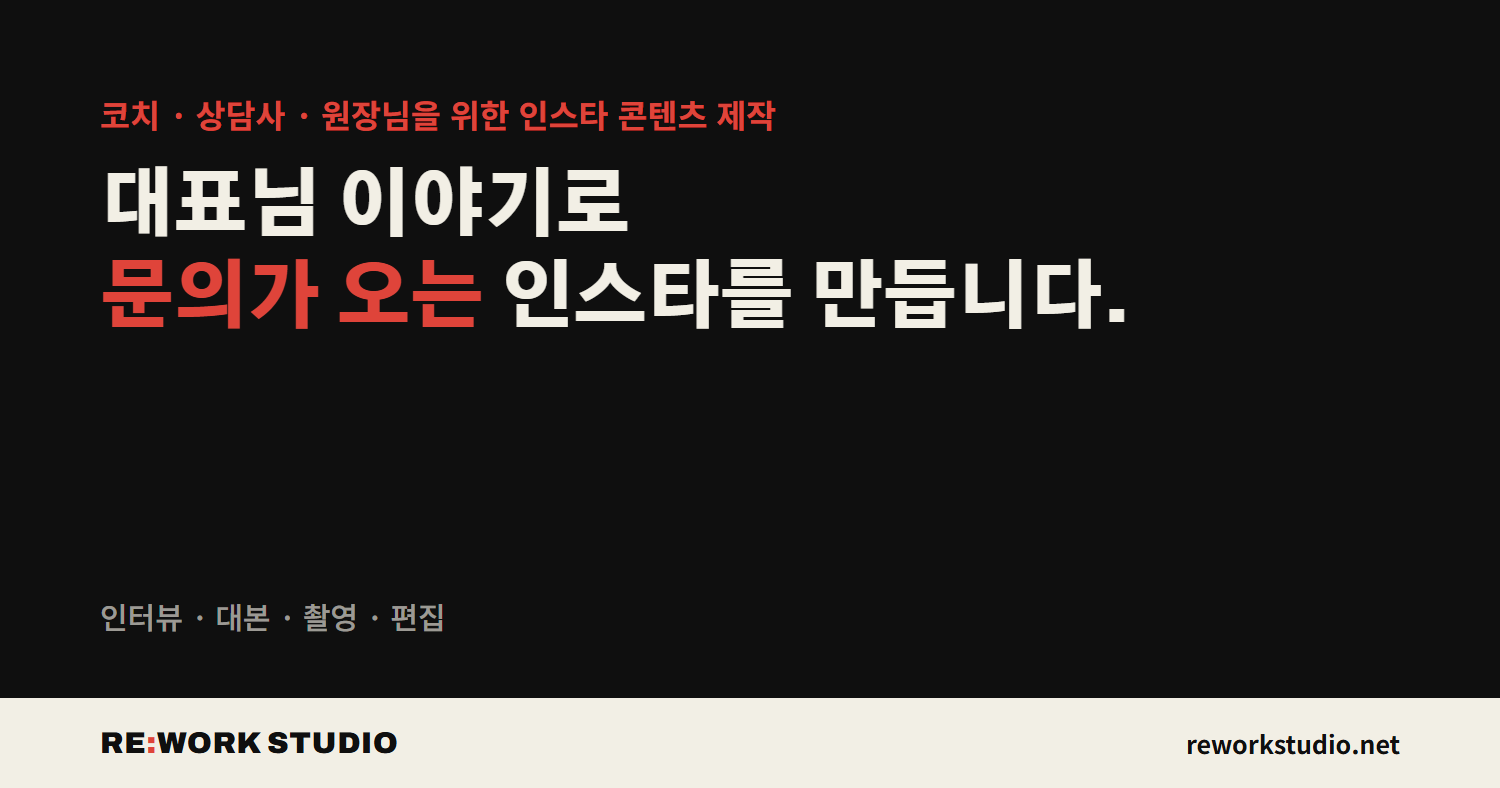
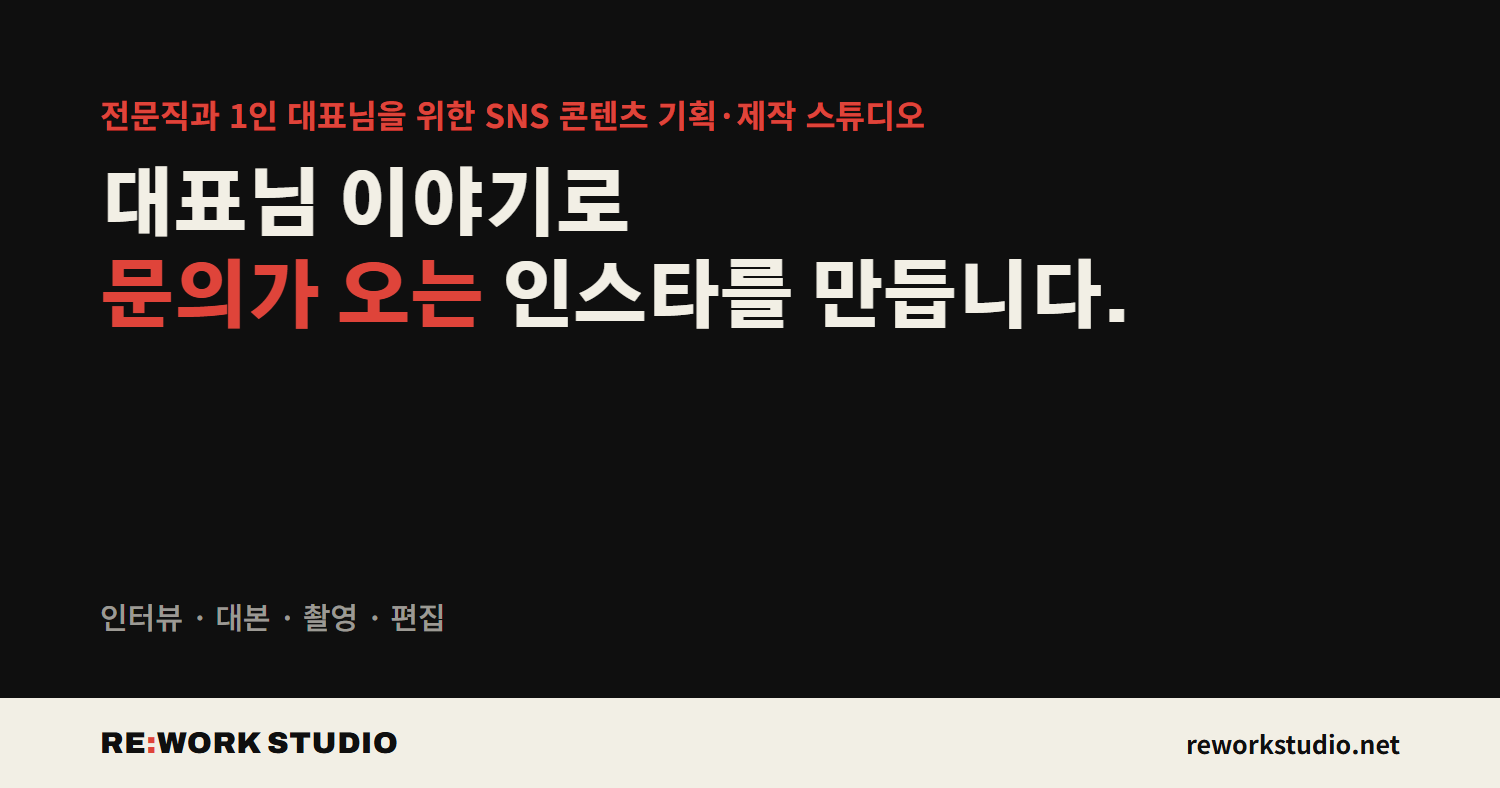
소개 문구 변경(전문직과 1인 대표님), 비공개 업체명 제거

Changed region(s): [[0.0613, 0.1218, 0.6133, 0.1827]]

diff --git a/insights/storytelling-marketing-research/index.html b/insights/storytelling-marketing-research/index.html
@@ -26,7 +26,7 @@
 <link rel="stylesheet" href="/css/site.css">
 <meta property="article:published_time" content="2026-11-03">
 <meta property="article:section" content="스토리 브랜딩">
-<script type="application/ld+json">{"@context":"https://schema.org","@graph":[{"@type":"BlogPosting","headline":"스토리텔링 마케팅, 정말 효과 있을까? 연구로 본 답","description":"이야기는 정말 마음을 움직일까요? 연구 5편으로 확인한 이야기의 힘과 한계, 대표님 콘텐츠에 쓰는 법.","datePublished":"2026-11-03","dateModified":"2026-11-03","inLanguage":"ko-KR","mainEntityOfPage":"https://reworkstudio.net/insights/storytelling-marketing-research","image":"https://reworkstudio.net/images/og/storytelling-marketing-research.png","keywords":"스토리텔링 마케팅, 스토리 브랜딩, 이야기 마케팅 효과, 1인 전문가 콘텐츠","articleSection":"스토리 브랜딩","author":{"@id":"https://reworkstudio.net/#founder"},"publisher":{"@id":"https://reworkstudio.net/#org"},"citation":[{"@type":"CreativeWork","name":"The role of transportation in the persuasiveness of public narratives","url":"https://doi.org/10.1037/0022-3514.79.5.701"},{"@type":"CreativeWork","name":"The Extended Transportation-Imagery Model: A Meta-Analysis of the Antecedents and Consequences of Consumers' Narrative Transportation","url":"https://doi.org/10.1086/673383"},{"@type":"CreativeWork","name":"Meta-analytic evidence for the persuasive effect of narratives on beliefs, attitudes, intentions, and behaviors","url":"https://doi.org/10.1080/03637751.2015.1128555"},{"@type":"CreativeWork","name":"The Differential Impact of Statistical and Narrative Evidence on Beliefs, Attitude, and Intention: A Meta-Analysis","url":"https://doi.org/10.1080/10410236.2013.842528"},{"@type":"CreativeWork","name":"Narrative Processing: Building Consumer Connections to Brands","url":"https://doi.org/10.1207/s15327663jcp1401&2_19"}]},{"@type":"BreadcrumbList","itemListElement":[{"@type":"ListItem","position":1,"name":"홈","item":"https://reworkstudio.net/"},{"@type":"ListItem","position":2,"name":"블로그","item":"https://reworkstudio.net/insights"},{"@type":"ListItem","position":3,"name":"스토리텔링 마케팅, 정말 효과 있을까? 연구로 본 답","item":"https://reworkstudio.net/insights/storytelling-marketing-research"}]},{"@type":"FAQPage","mainEntity":[{"@type":"Question","name":"스토리텔링 마케팅은 정말 효과가 있나요?","acceptedAnswer":{"@type":"Answer","text":"여러 연구에서 효과가 확인됐어요. 다만 크기는 작거나 중간 정도라, 이야기 하나로 크게 바뀌진 않아요."}},{"@type":"Question","name":"숫자와 이야기 중 뭐가 나을까요?","acceptedAnswer":{"@type":"Answer","text":"믿게 하려면 숫자가, 행동하게 하려면 이야기가 더 강했어요. 둘을 함께 쓰는 게 안전해요."}},{"@type":"Question","name":"실제 고객 사례가 꼭 있어야 하나요?","acceptedAnswer":{"@type":"Answer","text":"있으면 가장 좋아요. 동의 없는 사례를 지어내기보다 대표님이 직접 본 장면으로 대신하세요."}}]},{"@type":"ProfessionalService","@id":"https://reworkstudio.net/#org","name":"RE:WORK STUDIO","alternateName":["리워크 스튜디오","RE:WORK"],"url":"https://reworkstudio.net/","image":"https://reworkstudio.net/images/og-default.png","logo":"https://reworkstudio.net/favicon.svg","description":"코치·상담사·원장님 같은 1인 대표님의 이야기를 인터뷰해 릴스 대본, 촬영, 편집까지 만들어 문의가 오는 인스타를 만드는 콘텐츠 제작 스튜디오","email":"rework_studio@naver.com","telephone":"+82-10-3727-5522","areaServed":"KR","founder":{"@id":"https://reworkstudio.net/#founder"},"sameAs":["https://www.instagram.com/rework_studio99/","https://blog.naver.com/rework_studio","https://pf.kakao.com/_xdxjbCX"]},{"@type":"Person","@id":"https://reworkstudio.net/#founder","name":"정세연","jobTitle":"RE:WORK STUDIO 대표","description":"LH공사에서 17년 동안 기획 일을 했고, 30팀 넘는 브랜드의 인스타 콘텐츠를 기획했습니다. 『파워루틴핏』 저자.","worksFor":{"@id":"https://reworkstudio.net/#org"},"url":"https://reworkstudio.net/about","sameAs":["https://www.instagram.com/rework_studio99/"]}]}</script>
+<script type="application/ld+json">{"@context":"https://schema.org","@graph":[{"@type":"BlogPosting","headline":"스토리텔링 마케팅, 정말 효과 있을까? 연구로 본 답","description":"이야기는 정말 마음을 움직일까요? 연구 5편으로 확인한 이야기의 힘과 한계, 대표님 콘텐츠에 쓰는 법.","datePublished":"2026-11-03","dateModified":"2026-11-03","inLanguage":"ko-KR","mainEntityOfPage":"https://reworkstudio.net/insights/storytelling-marketing-research","image":"https://reworkstudio.net/images/og/storytelling-marketing-research.png","keywords":"스토리텔링 마케팅, 스토리 브랜딩, 이야기 마케팅 효과, 1인 전문가 콘텐츠","articleSection":"스토리 브랜딩","author":{"@id":"https://reworkstudio.net/#founder"},"publisher":{"@id":"https://reworkstudio.net/#org"},"citation":[{"@type":"CreativeWork","name":"The role of transportation in the persuasiveness of public narratives","url":"https://doi.org/10.1037/0022-3514.79.5.701"},{"@type":"CreativeWork","name":"The Extended Transportation-Imagery Model: A Meta-Analysis of the Antecedents and Consequences of Consumers' Narrative Transportation","url":"https://doi.org/10.1086/673383"},{"@type":"CreativeWork","name":"Meta-analytic evidence for the persuasive effect of narratives on beliefs, attitudes, intentions, and behaviors","url":"https://doi.org/10.1080/03637751.2015.1128555"},{"@type":"CreativeWork","name":"The Differential Impact of Statistical and Narrative Evidence on Beliefs, Attitude, and Intention: A Meta-Analysis","url":"https://doi.org/10.1080/10410236.2013.842528"},{"@type":"CreativeWork","name":"Narrative Processing: Building Consumer Connections to Brands","url":"https://doi.org/10.1207/s15327663jcp1401&2_19"}]},{"@type":"BreadcrumbList","itemListElement":[{"@type":"ListItem","position":1,"name":"홈","item":"https://reworkstudio.net/"},{"@type":"ListItem","position":2,"name":"블로그","item":"https://reworkstudio.net/insights"},{"@type":"ListItem","position":3,"name":"스토리텔링 마케팅, 정말 효과 있을까? 연구로 본 답","item":"https://reworkstudio.net/insights/storytelling-marketing-research"}]},{"@type":"FAQPage","mainEntity":[{"@type":"Question","name":"스토리텔링 마케팅은 정말 효과가 있나요?","acceptedAnswer":{"@type":"Answer","text":"여러 연구에서 효과가 확인됐어요. 다만 크기는 작거나 중간 정도라, 이야기 하나로 크게 바뀌진 않아요."}},{"@type":"Question","name":"숫자와 이야기 중 뭐가 나을까요?","acceptedAnswer":{"@type":"Answer","text":"믿게 하려면 숫자가, 행동하게 하려면 이야기가 더 강했어요. 둘을 함께 쓰는 게 안전해요."}},{"@type":"Question","name":"실제 고객 사례가 꼭 있어야 하나요?","acceptedAnswer":{"@type":"Answer","text":"있으면 가장 좋아요. 동의 없는 사례를 지어내기보다 대표님이 직접 본 장면으로 대신하세요."}}]},{"@type":"ProfessionalService","@id":"https://reworkstudio.net/#org","name":"RE:WORK STUDIO","alternateName":["리워크 스튜디오","RE:WORK"],"url":"https://reworkstudio.net/","image":"https://reworkstudio.net/images/og-default.png","logo":"https://reworkstudio.net/favicon.svg","description":"전문직과 1인 대표님을 위한 SNS 콘텐츠 기획·제작 스튜디오. 대표님 이야기를 인터뷰해 릴스 대본, 촬영, 편집까지 만들어 문의가 오는 SNS를 만듭니다.","email":"rework_studio@naver.com","telephone":"+82-10-3727-5522","areaServed":"KR","founder":{"@id":"https://reworkstudio.net/#founder"},"sameAs":["https://www.instagram.com/rework_studio99/","https://blog.naver.com/rework_studio","https://pf.kakao.com/_xdxjbCX"]},{"@type":"Person","@id":"https://reworkstudio.net/#founder","name":"정세연","jobTitle":"RE:WORK STUDIO 대표","description":"LH공사에서 17년 동안 기획 일을 했고, 30팀 넘는 브랜드의 인스타 콘텐츠를 기획했습니다. 『파워루틴핏』 저자.","worksFor":{"@id":"https://reworkstudio.net/#org"},"url":"https://reworkstudio.net/about","sameAs":["https://www.instagram.com/rework_studio99/"]}]}</script>
 </head>
 <body class="page page--article">
 <header class="site-nav" id="site-nav">
@@ -133,7 +133,7 @@
     <div class="site-foot__top">
       <div>
         <div class="site-foot__brand">RE:WORK STUDIO</div>
-        <p class="site-foot__desc">코치·상담사·원장님을 위한<br>인스타 콘텐츠 제작 스튜디오</p>
+        <p class="site-foot__desc">전문직과 1인 대표님을 위한<br>SNS 콘텐츠 기획·제작 스튜디오</p>
       </div>
       <nav class="site-foot__links" aria-label="하단 메뉴">
         <a href="/about">회사 소개</a><a href="/services">서비스</a><a href="/work">작업 사례</a><a href="/insights">블로그</a><a href="/lead">무료 계정 분석</a>

diff --git a/services/index.html b/services/index.html
@@ -24,7 +24,7 @@
 <link rel="stylesheet" href="https://fonts.googleapis.com/css2?family=Archivo:wght@500;700;800;900&family=Gothic+A1:wght@700;800;900&family=Noto+Sans+KR:wght@400;500;700&display=swap">
 <link rel="stylesheet" href="/css/style.css">
 <link rel="stylesheet" href="/css/site.css">
-<script type="application/ld+json">{"@context":"https://schema.org","@graph":[{"@type":"Service","name":"인스타 릴스 콘텐츠 제작","provider":{"@id":"https://reworkstudio.net/#org"},"areaServed":"KR","offers":[{"@type":"Offer","name":"직접 촬영 (Self) · 릴스 8편","price":"1000000","priceCurrency":"KRW"},{"@type":"Offer","name":"방문 촬영 (Standard) · 릴스 8편","price":"2200000","priceCurrency":"KRW"},{"@type":"Offer","name":"세팅 촬영 (Premium) · 릴스 8편","price":"3000000","priceCurrency":"KRW"}]},{"@type":"FAQPage","mainEntity":[{"@type":"Question","name":"어떤 대표님과 일하나요?","acceptedAnswer":{"@type":"Answer","text":"코치, 상담사, 학원·어린이집·필라테스 원장님처럼 실력은 있는데 인스타에서 잘 알려지지 않은 1인 대표님과 일해요."}},{"@type":"Question","name":"무료 계정 분석은 뭘 해 주나요?","acceptedAnswer":{"@type":"Answer","text":"대표님 계정을 직접 보고 첫인상, 반응이 없는 이유, 다음에 올릴 콘텐츠 3가지를 정리해 드려요. 3영업일 안에 리포트로 보내 드리고, 원하시면 15분 통화도 해요."}},{"@type":"Question","name":"제가 직접 찍어야 하나요?","acceptedAnswer":{"@type":"Answer","text":"직접 촬영(100만원)은 대표님이 찍고 저희가 촬영 가이드를 드려요. 방문 촬영과 세팅 촬영은 PD가 찾아가서 찍어요."}},{"@type":"Question","name":"기간은 얼마나 걸리고, 업로드도 해 주나요?","acceptedAnswer":{"@type":"Answer","text":"진행 기간과 업로드 대행 여부는 계약 전에 대표님 일정에 맞춰 정해요."}},{"@type":"Question","name":"수정은 몇 번 되나요?","acceptedAnswer":{"@type":"Answer","text":"편집 수정은 1번, 오타 수정은 횟수 제한 없이 해 드려요."}}]},{"@type":"ProfessionalService","@id":"https://reworkstudio.net/#org","name":"RE:WORK STUDIO","alternateName":["리워크 스튜디오","RE:WORK"],"url":"https://reworkstudio.net/","image":"https://reworkstudio.net/images/og-default.png","logo":"https://reworkstudio.net/favicon.svg","description":"코치·상담사·원장님 같은 1인 대표님의 이야기를 인터뷰해 릴스 대본, 촬영, 편집까지 만들어 문의가 오는 인스타를 만드는 콘텐츠 제작 스튜디오","email":"rework_studio@naver.com","telephone":"+82-10-3727-5522","areaServed":"KR","founder":{"@id":"https://reworkstudio.net/#founder"},"sameAs":["https://www.instagram.com/rework_studio99/","https://blog.naver.com/rework_studio","https://pf.kakao.com/_xdxjbCX"]}]}</script>
+<script type="application/ld+json">{"@context":"https://schema.org","@graph":[{"@type":"Service","name":"인스타 릴스 콘텐츠 제작","provider":{"@id":"https://reworkstudio.net/#org"},"areaServed":"KR","offers":[{"@type":"Offer","name":"직접 촬영 (Self) · 릴스 8편","price":"1000000","priceCurrency":"KRW"},{"@type":"Offer","name":"방문 촬영 (Standard) · 릴스 8편","price":"2200000","priceCurrency":"KRW"},{"@type":"Offer","name":"세팅 촬영 (Premium) · 릴스 8편","price":"3000000","priceCurrency":"KRW"}]},{"@type":"FAQPage","mainEntity":[{"@type":"Question","name":"어떤 대표님과 일하나요?","acceptedAnswer":{"@type":"Answer","text":"코치, 상담사, 원장님 같은 전문직과 1인 대표님과 일해요. 실력은 있는데 SNS에서 잘 알려지지 않았다면 잘 맞아요."}},{"@type":"Question","name":"무료 계정 분석은 뭘 해 주나요?","acceptedAnswer":{"@type":"Answer","text":"대표님 계정을 직접 보고 첫인상, 반응이 없는 이유, 다음에 올릴 콘텐츠 3가지를 정리해 드려요. 3영업일 안에 리포트로 보내 드리고, 원하시면 15분 통화도 해요."}},{"@type":"Question","name":"제가 직접 찍어야 하나요?","acceptedAnswer":{"@type":"Answer","text":"직접 촬영(100만원)은 대표님이 찍고 저희가 촬영 가이드를 드려요. 방문 촬영과 세팅 촬영은 PD가 찾아가서 찍어요."}},{"@type":"Question","name":"기간은 얼마나 걸리고, 업로드도 해 주나요?","acceptedAnswer":{"@type":"Answer","text":"진행 기간과 업로드 대행 여부는 계약 전에 대표님 일정에 맞춰 정해요."}},{"@type":"Question","name":"수정은 몇 번 되나요?","acceptedAnswer":{"@type":"Answer","text":"편집 수정은 1번, 오타 수정은 횟수 제한 없이 해 드려요."}}]},{"@type":"ProfessionalService","@id":"https://reworkstudio.net/#org","name":"RE:WORK STUDIO","alternateName":["리워크 스튜디오","RE:WORK"],"url":"https://reworkstudio.net/","image":"https://reworkstudio.net/images/og-default.png","logo":"https://reworkstudio.net/favicon.svg","description":"전문직과 1인 대표님을 위한 SNS 콘텐츠 기획·제작 스튜디오. 대표님 이야기를 인터뷰해 릴스 대본, 촬영, 편집까지 만들어 문의가 오는 SNS를 만듭니다.","email":"rework_studio@naver.com","telephone":"+82-10-3727-5522","areaServed":"KR","founder":{"@id":"https://reworkstudio.net/#founder"},"sameAs":["https://www.instagram.com/rework_studio99/","https://blog.naver.com/rework_studio","https://pf.kakao.com/_xdxjbCX"]}]}</script>
 </head>
 <body class="page page--sub">
 <header class="site-nav" id="site-nav">
@@ -67,7 +67,7 @@
 <section class="chapter chapter--dim">
   <div class="wrap">
     <div class="sec-head"><div><div class="eyebrow eyebrow--ko">자주 묻는 질문</div><h2 class="headline">궁금한 점</h2></div></div>
-    <div class="faq faq--home"><details class="faq__item"><summary>어떤 대표님과 일하나요?</summary><p>코치, 상담사, 학원·어린이집·필라테스 원장님처럼 실력은 있는데 인스타에서 잘 알려지지 않은 1인 대표님과 일해요.</p></details><details class="faq__item"><summary>무료 계정 분석은 뭘 해 주나요?</summary><p>대표님 계정을 직접 보고 첫인상, 반응이 없는 이유, 다음에 올릴 콘텐츠 3가지를 정리해 드려요. 3영업일 안에 리포트로 보내 드리고, 원하시면 15분 통화도 해요.</p></details><details class="faq__item"><summary>제가 직접 찍어야 하나요?</summary><p>직접 촬영(100만원)은 대표님이 찍고 저희가 촬영 가이드를 드려요. 방문 촬영과 세팅 촬영은 PD가 찾아가서 찍어요.</p></details><details class="faq__item"><summary>기간은 얼마나 걸리고, 업로드도 해 주나요?</summary><p>진행 기간과 업로드 대행 여부는 계약 전에 대표님 일정에 맞춰 정해요.</p></details><details class="faq__item"><summary>수정은 몇 번 되나요?</summary><p>편집 수정은 1번, 오타 수정은 횟수 제한 없이 해 드려요.</p></details></div>
+    <div class="faq faq--home"><details class="faq__item"><summary>어떤 대표님과 일하나요?</summary><p>코치, 상담사, 원장님 같은 전문직과 1인 대표님과 일해요. 실력은 있는데 SNS에서 잘 알려지지 않았다면 잘 맞아요.</p></details><details class="faq__item"><summary>무료 계정 분석은 뭘 해 주나요?</summary><p>대표님 계정을 직접 보고 첫인상, 반응이 없는 이유, 다음에 올릴 콘텐츠 3가지를 정리해 드려요. 3영업일 안에 리포트로 보내 드리고, 원하시면 15분 통화도 해요.</p></details><details class="faq__item"><summary>제가 직접 찍어야 하나요?</summary><p>직접 촬영(100만원)은 대표님이 찍고 저희가 촬영 가이드를 드려요. 방문 촬영과 세팅 촬영은 PD가 찾아가서 찍어요.</p></details><details class="faq__item"><summary>기간은 얼마나 걸리고, 업로드도 해 주나요?</summary><p>진행 기간과 업로드 대행 여부는 계약 전에 대표님 일정에 맞춰 정해요.</p></details><details class="faq__item"><summary>수정은 몇 번 되나요?</summary><p>편집 수정은 1번, 오타 수정은 횟수 제한 없이 해 드려요.</p></details></div>
   </div>
 </section>
 
@@ -88,7 +88,7 @@
     <div class="site-foot__top">
       <div>
         <div class="site-foot__brand">RE:WORK STUDIO</div>
-        <p class="site-foot__desc">코치·상담사·원장님을 위한<br>인스타 콘텐츠 제작 스튜디오</p>
+        <p class="site-foot__desc">전문직과 1인 대표님을 위한<br>SNS 콘텐츠 기획·제작 스튜디오</p>
       </div>
       <nav class="site-foot__links" aria-label="하단 메뉴">
         <a href="/about">회사 소개</a><a href="/services">서비스</a><a href="/work">작업 사례</a><a href="/insights">블로그</a><a href="/lead">무료 계정 분석</a>

diff --git a/insights/expert-personal-branding/index.html b/insights/expert-personal-branding/index.html
@@ -26,7 +26,7 @@
 <link rel="stylesheet" href="/css/site.css">
 <meta property="article:published_time" content="2026-11-03">
 <meta property="article:section" content="퍼스널 브랜딩">
-<script type="application/ld+json">{"@context":"https://schema.org","@graph":[{"@type":"BlogPosting","headline":"전문가 퍼스널 브랜딩, 경력보다 고객의 고민부터","description":"경력을 아무리 적어도 문의가 없다면 순서를 바꿔 보세요. 고객의 고민부터 말하는 소개법과 이번 주 할 일 3가지.","datePublished":"2026-11-03","dateModified":"2026-11-03","inLanguage":"ko-KR","mainEntityOfPage":"https://reworkstudio.net/insights/expert-personal-branding","image":"https://reworkstudio.net/images/og/expert-personal-branding.png","keywords":"전문가 퍼스널 브랜딩, 1인 사업가 브랜딩, 전문성 브랜딩, 인스타 프로필 소개, 고객 문제 중심 콘텐츠","articleSection":"퍼스널 브랜딩","author":{"@id":"https://reworkstudio.net/#founder"},"publisher":{"@id":"https://reworkstudio.net/#org"},"citation":[{"@type":"CreativeWork","name":"The Curse of Knowledge in Economic Settings: An Experimental Analysis","url":"https://www.journals.uchicago.edu/doi/10.1086/261651"},{"@type":"CreativeWork","name":"Jargon as a barrier to effective science communication: Evidence from metacognition","url":"https://journals.sagepub.com/doi/10.1177/0963662519865687"},{"@type":"CreativeWork","name":"Know Your Customers' \"Jobs to Be Done\"","url":"https://hbr.org/2016/09/know-your-customers-jobs-to-be-done"},{"@type":"CreativeWork","name":"2024 B2B Thought Leadership Impact Report","url":"https://www.edelman.com/expertise/Business-Marketing/2024-b2b-thought-leadership-report"}]},{"@type":"BreadcrumbList","itemListElement":[{"@type":"ListItem","position":1,"name":"홈","item":"https://reworkstudio.net/"},{"@type":"ListItem","position":2,"name":"블로그","item":"https://reworkstudio.net/insights"},{"@type":"ListItem","position":3,"name":"전문가 퍼스널 브랜딩, 경력보다 고객의 고민부터","item":"https://reworkstudio.net/insights/expert-personal-branding"}]},{"@type":"FAQPage","mainEntity":[{"@type":"Question","name":"자격증과 경력은 아예 빼야 하나요?","acceptedAnswer":{"@type":"Answer","text":"아니요. 맨 앞이 아니라 근거 자리에 두세요."}},{"@type":"Question","name":"고민부터 말하면 영업처럼 보이지 않을까요?","acceptedAnswer":{"@type":"Answer","text":"겁을 주지 않고 고객이 쓰는 말로 상황만 짚으면 괜찮아요. 바로 써먹을 팁을 함께 주면 도움으로 받아들여요."}},{"@type":"Question","name":"고객이 어떤 말을 쓰는지 어떻게 알 수 있나요?","acceptedAnswer":{"@type":"Answer","text":"문의, DM, 댓글, 첫 상담 때 받은 질문을 고치지 말고 그대로 모아 보세요. 내 말과 고객 말이 다른 곳이 바로 보여요."}}]},{"@type":"ProfessionalService","@id":"https://reworkstudio.net/#org","name":"RE:WORK STUDIO","alternateName":["리워크 스튜디오","RE:WORK"],"url":"https://reworkstudio.net/","image":"https://reworkstudio.net/images/og-default.png","logo":"https://reworkstudio.net/favicon.svg","description":"코치·상담사·원장님 같은 1인 대표님의 이야기를 인터뷰해 릴스 대본, 촬영, 편집까지 만들어 문의가 오는 인스타를 만드는 콘텐츠 제작 스튜디오","email":"rework_studio@naver.com","telephone":"+82-10-3727-5522","areaServed":"KR","founder":{"@id":"https://reworkstudio.net/#founder"},"sameAs":["https://www.instagram.com/rework_studio99/","https://blog.naver.com/rework_studio","https://pf.kakao.com/_xdxjbCX"]},{"@type":"Person","@id":"https://reworkstudio.net/#founder","name":"정세연","jobTitle":"RE:WORK STUDIO 대표","description":"LH공사에서 17년 동안 기획 일을 했고, 30팀 넘는 브랜드의 인스타 콘텐츠를 기획했습니다. 『파워루틴핏』 저자.","worksFor":{"@id":"https://reworkstudio.net/#org"},"url":"https://reworkstudio.net/about","sameAs":["https://www.instagram.com/rework_studio99/"]}]}</script>
+<script type="application/ld+json">{"@context":"https://schema.org","@graph":[{"@type":"BlogPosting","headline":"전문가 퍼스널 브랜딩, 경력보다 고객의 고민부터","description":"경력을 아무리 적어도 문의가 없다면 순서를 바꿔 보세요. 고객의 고민부터 말하는 소개법과 이번 주 할 일 3가지.","datePublished":"2026-11-03","dateModified":"2026-11-03","inLanguage":"ko-KR","mainEntityOfPage":"https://reworkstudio.net/insights/expert-personal-branding","image":"https://reworkstudio.net/images/og/expert-personal-branding.png","keywords":"전문가 퍼스널 브랜딩, 1인 사업가 브랜딩, 전문성 브랜딩, 인스타 프로필 소개, 고객 문제 중심 콘텐츠","articleSection":"퍼스널 브랜딩","author":{"@id":"https://reworkstudio.net/#founder"},"publisher":{"@id":"https://reworkstudio.net/#org"},"citation":[{"@type":"CreativeWork","name":"The Curse of Knowledge in Economic Settings: An Experimental Analysis","url":"https://www.journals.uchicago.edu/doi/10.1086/261651"},{"@type":"CreativeWork","name":"Jargon as a barrier to effective science communication: Evidence from metacognition","url":"https://journals.sagepub.com/doi/10.1177/0963662519865687"},{"@type":"CreativeWork","name":"Know Your Customers' \"Jobs to Be Done\"","url":"https://hbr.org/2016/09/know-your-customers-jobs-to-be-done"},{"@type":"CreativeWork","name":"2024 B2B Thought Leadership Impact Report","url":"https://www.edelman.com/expertise/Business-Marketing/2024-b2b-thought-leadership-report"}]},{"@type":"BreadcrumbList","itemListElement":[{"@type":"ListItem","position":1,"name":"홈","item":"https://reworkstudio.net/"},{"@type":"ListItem","position":2,"name":"블로그","item":"https://reworkstudio.net/insights"},{"@type":"ListItem","position":3,"name":"전문가 퍼스널 브랜딩, 경력보다 고객의 고민부터","item":"https://reworkstudio.net/insights/expert-personal-branding"}]},{"@type":"FAQPage","mainEntity":[{"@type":"Question","name":"자격증과 경력은 아예 빼야 하나요?","acceptedAnswer":{"@type":"Answer","text":"아니요. 맨 앞이 아니라 근거 자리에 두세요."}},{"@type":"Question","name":"고민부터 말하면 영업처럼 보이지 않을까요?","acceptedAnswer":{"@type":"Answer","text":"겁을 주지 않고 고객이 쓰는 말로 상황만 짚으면 괜찮아요. 바로 써먹을 팁을 함께 주면 도움으로 받아들여요."}},{"@type":"Question","name":"고객이 어떤 말을 쓰는지 어떻게 알 수 있나요?","acceptedAnswer":{"@type":"Answer","text":"문의, DM, 댓글, 첫 상담 때 받은 질문을 고치지 말고 그대로 모아 보세요. 내 말과 고객 말이 다른 곳이 바로 보여요."}}]},{"@type":"ProfessionalService","@id":"https://reworkstudio.net/#org","name":"RE:WORK STUDIO","alternateName":["리워크 스튜디오","RE:WORK"],"url":"https://reworkstudio.net/","image":"https://reworkstudio.net/images/og-default.png","logo":"https://reworkstudio.net/favicon.svg","description":"전문직과 1인 대표님을 위한 SNS 콘텐츠 기획·제작 스튜디오. 대표님 이야기를 인터뷰해 릴스 대본, 촬영, 편집까지 만들어 문의가 오는 SNS를 만듭니다.","email":"rework_studio@naver.com","telephone":"+82-10-3727-5522","areaServed":"KR","founder":{"@id":"https://reworkstudio.net/#founder"},"sameAs":["https://www.instagram.com/rework_studio99/","https://blog.naver.com/rework_studio","https://pf.kakao.com/_xdxjbCX"]},{"@type":"Person","@id":"https://reworkstudio.net/#founder","name":"정세연","jobTitle":"RE:WORK STUDIO 대표","description":"LH공사에서 17년 동안 기획 일을 했고, 30팀 넘는 브랜드의 인스타 콘텐츠를 기획했습니다. 『파워루틴핏』 저자.","worksFor":{"@id":"https://reworkstudio.net/#org"},"url":"https://reworkstudio.net/about","sameAs":["https://www.instagram.com/rework_studio99/"]}]}</script>
 </head>
 <body class="page page--article">
 <header class="site-nav" id="site-nav">
@@ -127,7 +127,7 @@
     <div class="site-foot__top">
       <div>
         <div class="site-foot__brand">RE:WORK STUDIO</div>
-        <p class="site-foot__desc">코치·상담사·원장님을 위한<br>인스타 콘텐츠 제작 스튜디오</p>
+        <p class="site-foot__desc">전문직과 1인 대표님을 위한<br>SNS 콘텐츠 기획·제작 스튜디오</p>
       </div>
       <nav class="site-foot__links" aria-label="하단 메뉴">
         <a href="/about">회사 소개</a><a href="/services">서비스</a><a href="/work">작업 사례</a><a href="/insights">블로그</a><a href="/lead">무료 계정 분석</a>

diff --git a/insights/instagram-inquiry-funnel/index.html b/insights/instagram-inquiry-funnel/index.html
@@ -26,7 +26,7 @@
 <link rel="stylesheet" href="/css/site.css">
 <meta property="article:published_time" content="2026-11-03">
 <meta property="article:section" content="문의 늘리기">
-<script type="application/ld+json">{"@context":"https://schema.org","@graph":[{"@type":"BlogPosting","headline":"인스타 문의 늘리는 법, 상담이 없을 때 볼 5가지","description":"팔로워는 느는데 상담 문의가 없다면 콘텐츠보다 문의까지 가는 길을 먼저 보세요. 바로 점검할 5가지.","datePublished":"2026-11-03","dateModified":"2026-11-03","inLanguage":"ko-KR","mainEntityOfPage":"https://reworkstudio.net/insights/instagram-inquiry-funnel","image":"https://reworkstudio.net/images/og/instagram-inquiry-funnel.png","keywords":"인스타 문의 늘리는 법, 인스타그램 상담 문의, 인스타 프로필 링크, 인스타 CTA","articleSection":"문의 늘리기","author":{"@id":"https://reworkstudio.net/#founder"},"publisher":{"@id":"https://reworkstudio.net/#org"},"citation":[{"@type":"CreativeWork","name":"The state of social media in 2026: Data from Sprout's latest pulse survey","url":"https://sproutsocial.com/insights/the-state-of-social-media/"},{"@type":"CreativeWork","name":"Instagram 프로필에 웹사이트 추가하기","url":"https://help.instagram.com/362497417173378"},{"@type":"CreativeWork","name":"Instagram 비즈니스 계정에 행동 유도 버튼 추가하기","url":"https://help.instagram.com/1419650861499317"},{"@type":"CreativeWork","name":"스토리 하이라이트에 스토리 추가하기","url":"https://help.instagram.com/813938898787367"},{"@type":"CreativeWork","name":"자주 묻는 질문","url":"https://creators.instagram.com/faq"}]},{"@type":"BreadcrumbList","itemListElement":[{"@type":"ListItem","position":1,"name":"홈","item":"https://reworkstudio.net/"},{"@type":"ListItem","position":2,"name":"블로그","item":"https://reworkstudio.net/insights"},{"@type":"ListItem","position":3,"name":"인스타 문의 늘리는 법, 상담이 없을 때 볼 5가지","item":"https://reworkstudio.net/insights/instagram-inquiry-funnel"}]},{"@type":"FAQPage","mainEntity":[{"@type":"Question","name":"팔로워가 적어도 문의를 받을 수 있나요?","acceptedAnswer":{"@type":"Answer","text":"네. 문의는 팔로워 수보다 무엇을 해주는 사람인지, 어디로 연락하면 되는지가 분명한지에 더 달려 있어요."}},{"@type":"Question","name":"모든 게시물에 상담 신청을 넣어야 하나요?","acceptedAnswer":{"@type":"Answer","text":"아니요. 처음 보는 사람에겐 저장이나 공유를, 믿음이 쌓인 뒤엔 DM이나 신청을 권하세요."}},{"@type":"Question","name":"DM 답장은 얼마나 빨리 해야 하나요?","acceptedAnswer":{"@type":"Answer","text":"해외 조사에서 68%가 24시간 안에 답을 기대했어요. 하루를 넘기지 않는 걸 기준으로 삼으세요."}}]},{"@type":"ProfessionalService","@id":"https://reworkstudio.net/#org","name":"RE:WORK STUDIO","alternateName":["리워크 스튜디오","RE:WORK"],"url":"https://reworkstudio.net/","image":"https://reworkstudio.net/images/og-default.png","logo":"https://reworkstudio.net/favicon.svg","description":"코치·상담사·원장님 같은 1인 대표님의 이야기를 인터뷰해 릴스 대본, 촬영, 편집까지 만들어 문의가 오는 인스타를 만드는 콘텐츠 제작 스튜디오","email":"rework_studio@naver.com","telephone":"+82-10-3727-5522","areaServed":"KR","founder":{"@id":"https://reworkstudio.net/#founder"},"sameAs":["https://www.instagram.com/rework_studio99/","https://blog.naver.com/rework_studio","https://pf.kakao.com/_xdxjbCX"]},{"@type":"Person","@id":"https://reworkstudio.net/#founder","name":"정세연","jobTitle":"RE:WORK STUDIO 대표","description":"LH공사에서 17년 동안 기획 일을 했고, 30팀 넘는 브랜드의 인스타 콘텐츠를 기획했습니다. 『파워루틴핏』 저자.","worksFor":{"@id":"https://reworkstudio.net/#org"},"url":"https://reworkstudio.net/about","sameAs":["https://www.instagram.com/rework_studio99/"]}]}</script>
+<script type="application/ld+json">{"@context":"https://schema.org","@graph":[{"@type":"BlogPosting","headline":"인스타 문의 늘리는 법, 상담이 없을 때 볼 5가지","description":"팔로워는 느는데 상담 문의가 없다면 콘텐츠보다 문의까지 가는 길을 먼저 보세요. 바로 점검할 5가지.","datePublished":"2026-11-03","dateModified":"2026-11-03","inLanguage":"ko-KR","mainEntityOfPage":"https://reworkstudio.net/insights/instagram-inquiry-funnel","image":"https://reworkstudio.net/images/og/instagram-inquiry-funnel.png","keywords":"인스타 문의 늘리는 법, 인스타그램 상담 문의, 인스타 프로필 링크, 인스타 CTA","articleSection":"문의 늘리기","author":{"@id":"https://reworkstudio.net/#founder"},"publisher":{"@id":"https://reworkstudio.net/#org"},"citation":[{"@type":"CreativeWork","name":"The state of social media in 2026: Data from Sprout's latest pulse survey","url":"https://sproutsocial.com/insights/the-state-of-social-media/"},{"@type":"CreativeWork","name":"Instagram 프로필에 웹사이트 추가하기","url":"https://help.instagram.com/362497417173378"},{"@type":"CreativeWork","name":"Instagram 비즈니스 계정에 행동 유도 버튼 추가하기","url":"https://help.instagram.com/1419650861499317"},{"@type":"CreativeWork","name":"스토리 하이라이트에 스토리 추가하기","url":"https://help.instagram.com/813938898787367"},{"@type":"CreativeWork","name":"자주 묻는 질문","url":"https://creators.instagram.com/faq"}]},{"@type":"BreadcrumbList","itemListElement":[{"@type":"ListItem","position":1,"name":"홈","item":"https://reworkstudio.net/"},{"@type":"ListItem","position":2,"name":"블로그","item":"https://reworkstudio.net/insights"},{"@type":"ListItem","position":3,"name":"인스타 문의 늘리는 법, 상담이 없을 때 볼 5가지","item":"https://reworkstudio.net/insights/instagram-inquiry-funnel"}]},{"@type":"FAQPage","mainEntity":[{"@type":"Question","name":"팔로워가 적어도 문의를 받을 수 있나요?","acceptedAnswer":{"@type":"Answer","text":"네. 문의는 팔로워 수보다 무엇을 해주는 사람인지, 어디로 연락하면 되는지가 분명한지에 더 달려 있어요."}},{"@type":"Question","name":"모든 게시물에 상담 신청을 넣어야 하나요?","acceptedAnswer":{"@type":"Answer","text":"아니요. 처음 보는 사람에겐 저장이나 공유를, 믿음이 쌓인 뒤엔 DM이나 신청을 권하세요."}},{"@type":"Question","name":"DM 답장은 얼마나 빨리 해야 하나요?","acceptedAnswer":{"@type":"Answer","text":"해외 조사에서 68%가 24시간 안에 답을 기대했어요. 하루를 넘기지 않는 걸 기준으로 삼으세요."}}]},{"@type":"ProfessionalService","@id":"https://reworkstudio.net/#org","name":"RE:WORK STUDIO","alternateName":["리워크 스튜디오","RE:WORK"],"url":"https://reworkstudio.net/","image":"https://reworkstudio.net/images/og-default.png","logo":"https://reworkstudio.net/favicon.svg","description":"전문직과 1인 대표님을 위한 SNS 콘텐츠 기획·제작 스튜디오. 대표님 이야기를 인터뷰해 릴스 대본, 촬영, 편집까지 만들어 문의가 오는 SNS를 만듭니다.","email":"rework_studio@naver.com","telephone":"+82-10-3727-5522","areaServed":"KR","founder":{"@id":"https://reworkstudio.net/#founder"},"sameAs":["https://www.instagram.com/rework_studio99/","https://blog.naver.com/rework_studio","https://pf.kakao.com/_xdxjbCX"]},{"@type":"Person","@id":"https://reworkstudio.net/#founder","name":"정세연","jobTitle":"RE:WORK STUDIO 대표","description":"LH공사에서 17년 동안 기획 일을 했고, 30팀 넘는 브랜드의 인스타 콘텐츠를 기획했습니다. 『파워루틴핏』 저자.","worksFor":{"@id":"https://reworkstudio.net/#org"},"url":"https://reworkstudio.net/about","sameAs":["https://www.instagram.com/rework_studio99/"]}]}</script>
 </head>
 <body class="page page--article">
 <header class="site-nav" id="site-nav">
@@ -129,7 +129,7 @@
     <div class="site-foot__top">
       <div>
         <div class="site-foot__brand">RE:WORK STUDIO</div>
-        <p class="site-foot__desc">코치·상담사·원장님을 위한<br>인스타 콘텐츠 제작 스튜디오</p>
+        <p class="site-foot__desc">전문직과 1인 대표님을 위한<br>SNS 콘텐츠 기획·제작 스튜디오</p>
       </div>
       <nav class="site-foot__links" aria-label="하단 메뉴">
         <a href="/about">회사 소개</a><a href="/services">서비스</a><a href="/work">작업 사례</a><a href="/insights">블로그</a><a href="/lead">무료 계정 분석</a>

diff --git a/about/index.html b/about/index.html
@@ -4,13 +4,13 @@
 <meta charset="UTF-8">
 <meta name="viewport" content="width=device-width, initial-scale=1.0">
 <title>회사 소개 | RE:WORK STUDIO</title>
-<meta name="description" content="RE:WORK STUDIO는 코치·상담사·원장님의 이야기를 인스타 콘텐츠로 만드는 회사예요. 대표 정세연과 함께한 브랜드를 소개합니다.">
+<meta name="description" content="RE:WORK STUDIO는 전문직과 1인 대표님을 위한 SNS 콘텐츠 기획·제작 스튜디오예요. 대표 정세연과 함께한 브랜드를 소개합니다.">
 <link rel="canonical" href="https://reworkstudio.net/about">
 <meta property="og:type" content="website">
 <meta property="og:site_name" content="RE:WORK STUDIO">
 <meta property="og:locale" content="ko_KR">
 <meta property="og:title" content="회사 소개 | RE:WORK STUDIO">
-<meta property="og:description" content="RE:WORK STUDIO는 코치·상담사·원장님의 이야기를 인스타 콘텐츠로 만드는 회사예요. 대표 정세연과 함께한 브랜드를 소개합니다.">
+<meta property="og:description" content="RE:WORK STUDIO는 전문직과 1인 대표님을 위한 SNS 콘텐츠 기획·제작 스튜디오예요. 대표 정세연과 함께한 브랜드를 소개합니다.">
 <meta property="og:url" content="https://reworkstudio.net/about">
 <meta property="og:image" content="https://reworkstudio.net/images/og-default.png">
 <meta property="og:image:width" content="1200">
@@ -24,7 +24,7 @@
 <link rel="stylesheet" href="https://fonts.googleapis.com/css2?family=Archivo:wght@500;700;800;900&family=Gothic+A1:wght@700;800;900&family=Noto+Sans+KR:wght@400;500;700&display=swap">
 <link rel="stylesheet" href="/css/style.css">
 <link rel="stylesheet" href="/css/site.css">
-<script type="application/ld+json">{"@context":"https://schema.org","@graph":[{"@type":"ProfessionalService","@id":"https://reworkstudio.net/#org","name":"RE:WORK STUDIO","alternateName":["리워크 스튜디오","RE:WORK"],"url":"https://reworkstudio.net/","image":"https://reworkstudio.net/images/og-default.png","logo":"https://reworkstudio.net/favicon.svg","description":"코치·상담사·원장님 같은 1인 대표님의 이야기를 인터뷰해 릴스 대본, 촬영, 편집까지 만들어 문의가 오는 인스타를 만드는 콘텐츠 제작 스튜디오","email":"rework_studio@naver.com","telephone":"+82-10-3727-5522","areaServed":"KR","founder":{"@id":"https://reworkstudio.net/#founder"},"sameAs":["https://www.instagram.com/rework_studio99/","https://blog.naver.com/rework_studio","https://pf.kakao.com/_xdxjbCX"]},{"@type":"Person","@id":"https://reworkstudio.net/#founder","name":"정세연","jobTitle":"RE:WORK STUDIO 대표","description":"LH공사에서 17년 동안 기획 일을 했고, 30팀 넘는 브랜드의 인스타 콘텐츠를 기획했습니다. 『파워루틴핏』 저자.","worksFor":{"@id":"https://reworkstudio.net/#org"},"url":"https://reworkstudio.net/about","sameAs":["https://www.instagram.com/rework_studio99/"]}]}</script>
+<script type="application/ld+json">{"@context":"https://schema.org","@graph":[{"@type":"ProfessionalService","@id":"https://reworkstudio.net/#org","name":"RE:WORK STUDIO","alternateName":["리워크 스튜디오","RE:WORK"],"url":"https://reworkstudio.net/","image":"https://reworkstudio.net/images/og-default.png","logo":"https://reworkstudio.net/favicon.svg","description":"전문직과 1인 대표님을 위한 SNS 콘텐츠 기획·제작 스튜디오. 대표님 이야기를 인터뷰해 릴스 대본, 촬영, 편집까지 만들어 문의가 오는 SNS를 만듭니다.","email":"rework_studio@naver.com","telephone":"+82-10-3727-5522","areaServed":"KR","founder":{"@id":"https://reworkstudio.net/#founder"},"sameAs":["https://www.instagram.com/rework_studio99/","https://blog.naver.com/rework_studio","https://pf.kakao.com/_xdxjbCX"]},{"@type":"Person","@id":"https://reworkstudio.net/#founder","name":"정세연","jobTitle":"RE:WORK STUDIO 대표","description":"LH공사에서 17년 동안 기획 일을 했고, 30팀 넘는 브랜드의 인스타 콘텐츠를 기획했습니다. 『파워루틴핏』 저자.","worksFor":{"@id":"https://reworkstudio.net/#org"},"url":"https://reworkstudio.net/about","sameAs":["https://www.instagram.com/rework_studio99/"]}]}</script>
 </head>
 <body class="page page--sub">
 <header class="site-nav" id="site-nav">
@@ -39,7 +39,7 @@
 </header>
 <main>
 
-<section class="chapter chapter--dark sub-hero"><div class="wrap"><div class="eyebrow eyebrow--ko">회사 소개</div><h1 class="sub-hero__title">대표님의 이야기를<br><span>콘텐츠로</span> 만드는 회사예요.</h1><p class="sub-hero__lede">코치·상담사·원장님처럼 실력은 있는데 인스타에서 잘 알려지지 않은 1인 대표님과 일해요.</p></div></section>
+<section class="chapter chapter--dark sub-hero"><div class="wrap"><div class="eyebrow eyebrow--ko">회사 소개</div><h1 class="sub-hero__title">대표님의 이야기를<br><span>콘텐츠로</span> 만드는 회사예요.</h1><p class="sub-hero__lede">전문직과 1인 대표님 중, 실력은 있는데 SNS에서 잘 알려지지 않은 분들과 일해요.</p></div></section>
 
 <section class="chapter">
   <div class="wrap">
@@ -82,7 +82,7 @@
 <section class="chapter">
   <div class="wrap">
     <div class="sec-head"><div><div class="eyebrow eyebrow--ko">함께한 브랜드</div><h2 class="headline">이런 분들과 <span class="hl">함께했어요</span></h2></div><a class="more-link" href="/work">작업 사례 보기 →</a></div>
-    <ul class="brand-list"><li><b>움트리</b><span>48년 된 식품 제조사 · 마케팅 전체 대행</span></li><li><b>뉴로인사이트</b><span>뇌파훈련 브랜드 · 이름·로고부터 채널 기획</span></li><li><b>제이미컬러랩</b><span>컬러기질·뇌과학 기반 부모교육</span></li><li><b>유앤미컬러랩</b><span>유아교육 원장의 기질 상담 콘텐츠</span></li><li><b>MJ관계연구소</b><span>부부관계 회복 전문가 브랜딩</span></li><li><b>마음색 작업실</b><span>감정미술·사춘기 미술치료</span></li><li><b>싸커맘 멘탈코치</b><span>스포츠 멘탈코칭 브랜드</span></li><li><b>황재성 원장</b><span>국공립 어린이집 원장 · 교육 현장 콘텐츠</span></li></ul>
+    <ul class="brand-list"><li><b>48년 업력 식품 제조사</b><span>마케팅 전체 대행</span></li><li><b>뉴로인사이트</b><span>뇌파훈련 브랜드 · 이름·로고부터 채널 기획</span></li><li><b>제이미컬러랩</b><span>컬러기질·뇌과학 기반 부모교육</span></li><li><b>유앤미컬러랩</b><span>유아교육 원장의 기질 상담 콘텐츠</span></li><li><b>MJ관계연구소</b><span>부부관계 회복 전문가 브랜딩</span></li><li><b>마음색 작업실</b><span>감정미술·사춘기 미술치료</span></li><li><b>싸커맘 멘탈코치</b><span>스포츠 멘탈코칭 브랜드</span></li><li><b>어린이집 원장</b><span>국공립 어린이집 · 교육 현장 콘텐츠</span></li></ul>
   </div>
 </section>
 
@@ -115,7 +115,7 @@
     <div class="site-foot__top">
       <div>
         <div class="site-foot__brand">RE:WORK STUDIO</div>
-        <p class="site-foot__desc">코치·상담사·원장님을 위한<br>인스타 콘텐츠 제작 스튜디오</p>
+        <p class="site-foot__desc">전문직과 1인 대표님을 위한<br>SNS 콘텐츠 기획·제작 스튜디오</p>
       </div>
       <nav class="site-foot__links" aria-label="하단 메뉴">
         <a href="/about">회사 소개</a><a href="/services">서비스</a><a href="/work">작업 사례</a><a href="/insights">블로그</a><a href="/lead">무료 계정 분석</a>

diff --git a/index.html b/index.html
@@ -3,14 +3,14 @@
 <head>
 <meta charset="UTF-8">
 <meta name="viewport" content="width=device-width, initial-scale=1.0">
-<title>RE:WORK STUDIO | 코치·상담사·원장님을 위한 인스타 콘텐츠 제작</title>
-<meta name="description" content="실력은 있는데 인스타에서 문의가 없는 대표님께. 인터뷰, 대본, 촬영, 편집까지 함께 해서 문의가 오는 인스타를 만듭니다. 무료 계정 분석 신청 가능.">
+<title>RE:WORK STUDIO | 전문직과 1인 대표님을 위한 SNS 콘텐츠 기획·제작 스튜디오</title>
+<meta name="description" content="전문직과 1인 대표님을 위한 SNS 콘텐츠 기획·제작 스튜디오. 인터뷰, 대본, 촬영, 편집까지 함께 해서 문의가 오는 인스타를 만듭니다. 무료 계정 분석 신청 가능.">
 <link rel="canonical" href="https://reworkstudio.net/">
 <meta property="og:type" content="website">
 <meta property="og:site_name" content="RE:WORK STUDIO">
 <meta property="og:locale" content="ko_KR">
-<meta property="og:title" content="RE:WORK STUDIO | 코치·상담사·원장님을 위한 인스타 콘텐츠 제작">
-<meta property="og:description" content="실력은 있는데 인스타에서 문의가 없는 대표님께. 인터뷰, 대본, 촬영, 편집까지 함께 해서 문의가 오는 인스타를 만듭니다. 무료 계정 분석 신청 가능.">
+<meta property="og:title" content="RE:WORK STUDIO | 전문직과 1인 대표님을 위한 SNS 콘텐츠 기획·제작 스튜디오">
+<meta property="og:description" content="전문직과 1인 대표님을 위한 SNS 콘텐츠 기획·제작 스튜디오. 인터뷰, 대본, 촬영, 편집까지 함께 해서 문의가 오는 인스타를 만듭니다. 무료 계정 분석 신청 가능.">
 <meta property="og:url" content="https://reworkstudio.net/">
 <meta property="og:image" content="https://reworkstudio.net/images/og-default.png">
 <meta property="og:image:width" content="1200">
@@ -24,7 +24,7 @@
 <link rel="stylesheet" href="https://fonts.googleapis.com/css2?family=Archivo:wght@500;700;800;900&family=Gothic+A1:wght@700;800;900&family=Noto+Sans+KR:wght@400;500;700&display=swap">
 <link rel="stylesheet" href="/css/style.css">
 <link rel="stylesheet" href="/css/site.css">
-<script type="application/ld+json">{"@context":"https://schema.org","@graph":[{"@type":"WebSite","@id":"https://reworkstudio.net/#website","name":"RE:WORK STUDIO","url":"https://reworkstudio.net/","inLanguage":"ko-KR","publisher":{"@id":"https://reworkstudio.net/#org"}},{"@type":"ProfessionalService","@id":"https://reworkstudio.net/#org","name":"RE:WORK STUDIO","alternateName":["리워크 스튜디오","RE:WORK"],"url":"https://reworkstudio.net/","image":"https://reworkstudio.net/images/og-default.png","logo":"https://reworkstudio.net/favicon.svg","description":"코치·상담사·원장님 같은 1인 대표님의 이야기를 인터뷰해 릴스 대본, 촬영, 편집까지 만들어 문의가 오는 인스타를 만드는 콘텐츠 제작 스튜디오","email":"rework_studio@naver.com","telephone":"+82-10-3727-5522","areaServed":"KR","founder":{"@id":"https://reworkstudio.net/#founder"},"sameAs":["https://www.instagram.com/rework_studio99/","https://blog.naver.com/rework_studio","https://pf.kakao.com/_xdxjbCX"]},{"@type":"Person","@id":"https://reworkstudio.net/#founder","name":"정세연","jobTitle":"RE:WORK STUDIO 대표","description":"LH공사에서 17년 동안 기획 일을 했고, 30팀 넘는 브랜드의 인스타 콘텐츠를 기획했습니다. 『파워루틴핏』 저자.","worksFor":{"@id":"https://reworkstudio.net/#org"},"url":"https://reworkstudio.net/about","sameAs":["https://www.instagram.com/rework_studio99/"]}]}</script>
+<script type="application/ld+json">{"@context":"https://schema.org","@graph":[{"@type":"WebSite","@id":"https://reworkstudio.net/#website","name":"RE:WORK STUDIO","url":"https://reworkstudio.net/","inLanguage":"ko-KR","publisher":{"@id":"https://reworkstudio.net/#org"}},{"@type":"ProfessionalService","@id":"https://reworkstudio.net/#org","name":"RE:WORK STUDIO","alternateName":["리워크 스튜디오","RE:WORK"],"url":"https://reworkstudio.net/","image":"https://reworkstudio.net/images/og-default.png","logo":"https://reworkstudio.net/favicon.svg","description":"전문직과 1인 대표님을 위한 SNS 콘텐츠 기획·제작 스튜디오. 대표님 이야기를 인터뷰해 릴스 대본, 촬영, 편집까지 만들어 문의가 오는 SNS를 만듭니다.","email":"rework_studio@naver.com","telephone":"+82-10-3727-5522","areaServed":"KR","founder":{"@id":"https://reworkstudio.net/#founder"},"sameAs":["https://www.instagram.com/rework_studio99/","https://blog.naver.com/rework_studio","https://pf.kakao.com/_xdxjbCX"]},{"@type":"Person","@id":"https://reworkstudio.net/#founder","name":"정세연","jobTitle":"RE:WORK STUDIO 대표","description":"LH공사에서 17년 동안 기획 일을 했고, 30팀 넘는 브랜드의 인스타 콘텐츠를 기획했습니다. 『파워루틴핏』 저자.","worksFor":{"@id":"https://reworkstudio.net/#org"},"url":"https://reworkstudio.net/about","sameAs":["https://www.instagram.com/rework_studio99/"]}]}</script>
 </head>
 <body class="page page--home">
 <header class="site-nav" id="site-nav">
@@ -41,7 +41,7 @@
 
 <section class="chapter chapter--dark home-hero">
   <div class="wrap">
-    <div class="home-hero__kicker">코치 · 상담사 · 원장님을 위한 인스타 콘텐츠 제작</div>
+    <div class="home-hero__kicker">전문직과 1인 대표님을 위한 SNS 콘텐츠 기획·제작 스튜디오</div>
     <h1 class="home-hero__title">대표님 이야기로<br><span>문의가 오는</span> 인스타를<br class="br-m"> 만듭니다.</h1>
     <p class="home-hero__lede">인터뷰부터 대본, 촬영, 편집까지 함께 해요.</p>
     <div class="home-hero__actions">
@@ -139,7 +139,7 @@
     <div class="site-foot__top">
       <div>
         <div class="site-foot__brand">RE:WORK STUDIO</div>
-        <p class="site-foot__desc">코치·상담사·원장님을 위한<br>인스타 콘텐츠 제작 스튜디오</p>
+        <p class="site-foot__desc">전문직과 1인 대표님을 위한<br>SNS 콘텐츠 기획·제작 스튜디오</p>
       </div>
       <nav class="site-foot__links" aria-label="하단 메뉴">
         <a href="/about">회사 소개</a><a href="/services">서비스</a><a href="/work">작업 사례</a><a href="/insights">블로그</a><a href="/lead">무료 계정 분석</a>

diff --git a/insights/index.html b/insights/index.html
@@ -24,7 +24,7 @@
 <link rel="stylesheet" href="https://fonts.googleapis.com/css2?family=Archivo:wght@500;700;800;900&family=Gothic+A1:wght@700;800;900&family=Noto+Sans+KR:wght@400;500;700&display=swap">
 <link rel="stylesheet" href="/css/style.css">
 <link rel="stylesheet" href="/css/site.css">
-<script type="application/ld+json">{"@context":"https://schema.org","@graph":[{"@type":"Blog","@id":"https://reworkstudio.net/insights#blog","name":"RE:WORK STUDIO 블로그","url":"https://reworkstudio.net/insights","inLanguage":"ko-KR","publisher":{"@id":"https://reworkstudio.net/#org"},"blogPost":[{"@type":"BlogPosting","headline":"스토리텔링 마케팅, 정말 효과 있을까? 연구로 본 답","url":"https://reworkstudio.net/insights/storytelling-marketing-research","datePublished":"2026-11-03"},{"@type":"BlogPosting","headline":"인스타 문의 늘리는 법, 상담이 없을 때 볼 5가지","url":"https://reworkstudio.net/insights/instagram-inquiry-funnel","datePublished":"2026-11-03"},{"@type":"BlogPosting","headline":"전문가 퍼스널 브랜딩, 경력보다 고객의 고민부터","url":"https://reworkstudio.net/insights/expert-personal-branding","datePublished":"2026-11-03"}]},{"@type":"ProfessionalService","@id":"https://reworkstudio.net/#org","name":"RE:WORK STUDIO","alternateName":["리워크 스튜디오","RE:WORK"],"url":"https://reworkstudio.net/","image":"https://reworkstudio.net/images/og-default.png","logo":"https://reworkstudio.net/favicon.svg","description":"코치·상담사·원장님 같은 1인 대표님의 이야기를 인터뷰해 릴스 대본, 촬영, 편집까지 만들어 문의가 오는 인스타를 만드는 콘텐츠 제작 스튜디오","email":"rework_studio@naver.com","telephone":"+82-10-3727-5522","areaServed":"KR","founder":{"@id":"https://reworkstudio.net/#founder"},"sameAs":["https://www.instagram.com/rework_studio99/","https://blog.naver.com/rework_studio","https://pf.kakao.com/_xdxjbCX"]},{"@type":"Person","@id":"https://reworkstudio.net/#founder","name":"정세연","jobTitle":"RE:WORK STUDIO 대표","description":"LH공사에서 17년 동안 기획 일을 했고, 30팀 넘는 브랜드의 인스타 콘텐츠를 기획했습니다. 『파워루틴핏』 저자.","worksFor":{"@id":"https://reworkstudio.net/#org"},"url":"https://reworkstudio.net/about","sameAs":["https://www.instagram.com/rework_studio99/"]}]}</script>
+<script type="application/ld+json">{"@context":"https://schema.org","@graph":[{"@type":"Blog","@id":"https://reworkstudio.net/insights#blog","name":"RE:WORK STUDIO 블로그","url":"https://reworkstudio.net/insights","inLanguage":"ko-KR","publisher":{"@id":"https://reworkstudio.net/#org"},"blogPost":[{"@type":"BlogPosting","headline":"스토리텔링 마케팅, 정말 효과 있을까? 연구로 본 답","url":"https://reworkstudio.net/insights/storytelling-marketing-research","datePublished":"2026-11-03"},{"@type":"BlogPosting","headline":"인스타 문의 늘리는 법, 상담이 없을 때 볼 5가지","url":"https://reworkstudio.net/insights/instagram-inquiry-funnel","datePublished":"2026-11-03"},{"@type":"BlogPosting","headline":"전문가 퍼스널 브랜딩, 경력보다 고객의 고민부터","url":"https://reworkstudio.net/insights/expert-personal-branding","datePublished":"2026-11-03"}]},{"@type":"ProfessionalService","@id":"https://reworkstudio.net/#org","name":"RE:WORK STUDIO","alternateName":["리워크 스튜디오","RE:WORK"],"url":"https://reworkstudio.net/","image":"https://reworkstudio.net/images/og-default.png","logo":"https://reworkstudio.net/favicon.svg","description":"전문직과 1인 대표님을 위한 SNS 콘텐츠 기획·제작 스튜디오. 대표님 이야기를 인터뷰해 릴스 대본, 촬영, 편집까지 만들어 문의가 오는 SNS를 만듭니다.","email":"rework_studio@naver.com","telephone":"+82-10-3727-5522","areaServed":"KR","founder":{"@id":"https://reworkstudio.net/#founder"},"sameAs":["https://www.instagram.com/rework_studio99/","https://blog.naver.com/rework_studio","https://pf.kakao.com/_xdxjbCX"]},{"@type":"Person","@id":"https://reworkstudio.net/#founder","name":"정세연","jobTitle":"RE:WORK STUDIO 대표","description":"LH공사에서 17년 동안 기획 일을 했고, 30팀 넘는 브랜드의 인스타 콘텐츠를 기획했습니다. 『파워루틴핏』 저자.","worksFor":{"@id":"https://reworkstudio.net/#org"},"url":"https://reworkstudio.net/about","sameAs":["https://www.instagram.com/rework_studio99/"]}]}</script>
 </head>
 <body class="page page--sub">
 <header class="site-nav" id="site-nav">
@@ -77,7 +77,7 @@
     <div class="site-foot__top">
       <div>
         <div class="site-foot__brand">RE:WORK STUDIO</div>
-        <p class="site-foot__desc">코치·상담사·원장님을 위한<br>인스타 콘텐츠 제작 스튜디오</p>
+        <p class="site-foot__desc">전문직과 1인 대표님을 위한<br>SNS 콘텐츠 기획·제작 스튜디오</p>
       </div>
       <nav class="site-foot__links" aria-label="하단 메뉴">
         <a href="/about">회사 소개</a><a href="/services">서비스</a><a href="/work">작업 사례</a><a href="/insights">블로그</a><a href="/lead">무료 계정 분석</a>

diff --git a/work/index.html b/work/index.html
@@ -24,7 +24,7 @@
 <link rel="stylesheet" href="https://fonts.googleapis.com/css2?family=Archivo:wght@500;700;800;900&family=Gothic+A1:wght@700;800;900&family=Noto+Sans+KR:wght@400;500;700&display=swap">
 <link rel="stylesheet" href="/css/style.css">
 <link rel="stylesheet" href="/css/site.css">
-<script type="application/ld+json">{"@context":"https://schema.org","@graph":[{"@type":"ProfessionalService","@id":"https://reworkstudio.net/#org","name":"RE:WORK STUDIO","alternateName":["리워크 스튜디오","RE:WORK"],"url":"https://reworkstudio.net/","image":"https://reworkstudio.net/images/og-default.png","logo":"https://reworkstudio.net/favicon.svg","description":"코치·상담사·원장님 같은 1인 대표님의 이야기를 인터뷰해 릴스 대본, 촬영, 편집까지 만들어 문의가 오는 인스타를 만드는 콘텐츠 제작 스튜디오","email":"rework_studio@naver.com","telephone":"+82-10-3727-5522","areaServed":"KR","founder":{"@id":"https://reworkstudio.net/#founder"},"sameAs":["https://www.instagram.com/rework_studio99/","https://blog.naver.com/rework_studio","https://pf.kakao.com/_xdxjbCX"]}]}</script>
+<script type="application/ld+json">{"@context":"https://schema.org","@graph":[{"@type":"ProfessionalService","@id":"https://reworkstudio.net/#org","name":"RE:WORK STUDIO","alternateName":["리워크 스튜디오","RE:WORK"],"url":"https://reworkstudio.net/","image":"https://reworkstudio.net/images/og-default.png","logo":"https://reworkstudio.net/favicon.svg","description":"전문직과 1인 대표님을 위한 SNS 콘텐츠 기획·제작 스튜디오. 대표님 이야기를 인터뷰해 릴스 대본, 촬영, 편집까지 만들어 문의가 오는 SNS를 만듭니다.","email":"rework_studio@naver.com","telephone":"+82-10-3727-5522","areaServed":"KR","founder":{"@id":"https://reworkstudio.net/#founder"},"sameAs":["https://www.instagram.com/rework_studio99/","https://blog.naver.com/rework_studio","https://pf.kakao.com/_xdxjbCX"]}]}</script>
 </head>
 <body class="page page--sub page--work">
 <header class="site-nav" id="site-nav">
@@ -225,7 +225,7 @@
     <div class="site-foot__top">
       <div>
         <div class="site-foot__brand">RE:WORK STUDIO</div>
-        <p class="site-foot__desc">코치·상담사·원장님을 위한<br>인스타 콘텐츠 제작 스튜디오</p>
+        <p class="site-foot__desc">전문직과 1인 대표님을 위한<br>SNS 콘텐츠 기획·제작 스튜디오</p>
       </div>
       <nav class="site-foot__links" aria-label="하단 메뉴">
         <a href="/about">회사 소개</a><a href="/services">서비스</a><a href="/work">작업 사례</a><a href="/insights">블로그</a><a href="/lead">무료 계정 분석</a>
